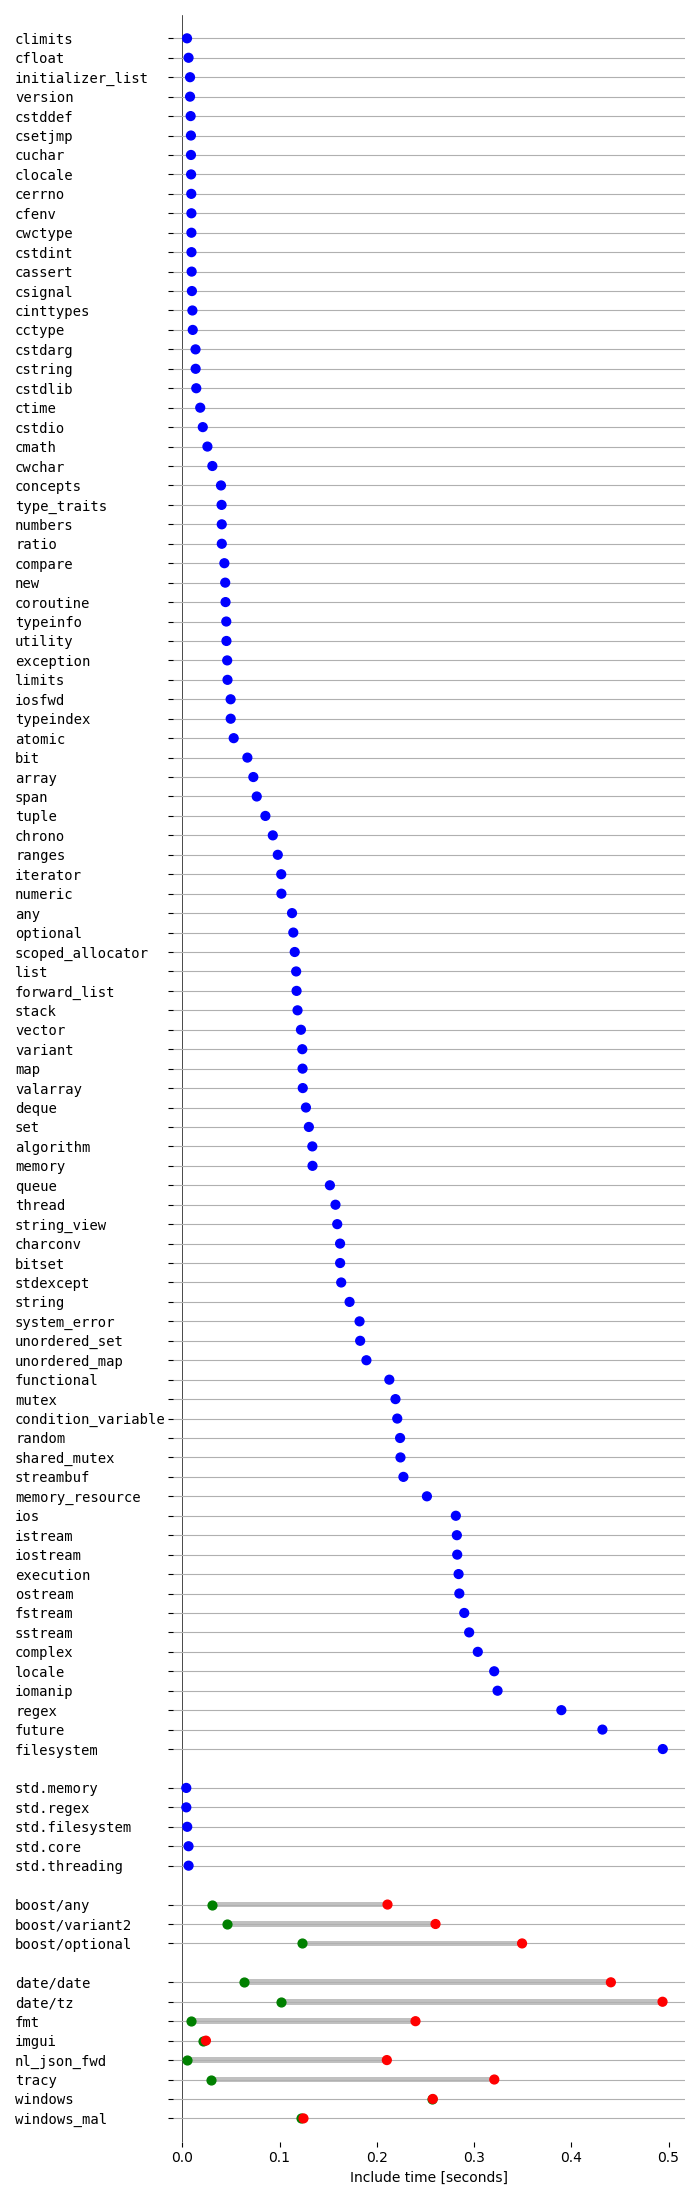
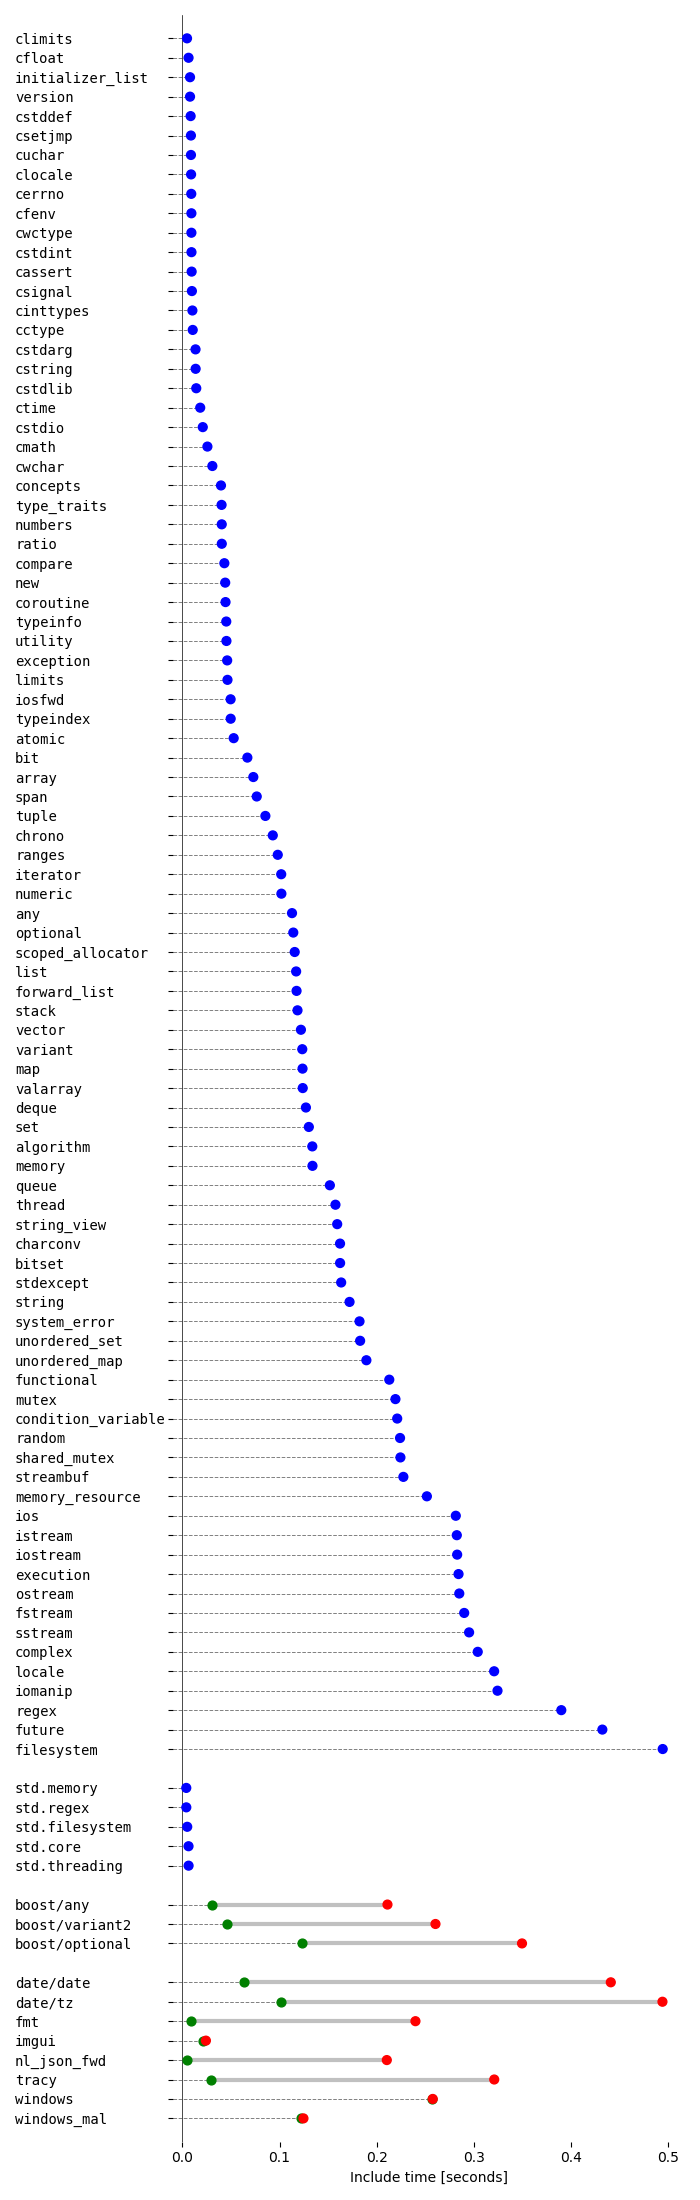
plot cosmetics

diff --git a/plotting/plot.py b/plotting/plot.py
@@ -2,6 +2,7 @@ import matplotlib as mpl
 import matplotlib.pyplot as plt
 import os.path
 import numpy as np
+
 def get_pretty_name(name):
     if(name.startswith("std_")):
         return "std." + name[4:]
@@ -79,26 +80,13 @@ for dataset in [std_data, std_modules_data, boost_data, misc_data]:
     expensive_datasets.append(get_dataset_slice(dataset, exp_indices))
 
 def create_plot(datasets, fn):
-    def plot_dataset(ax, y_pos, names, means, errors, colors, all_values, all_errors, bar_filter):
-        y_filtered = np.array(y_pos)[bar_filter]
-        all_values_filtered = all_values[bar_filter]
-        width_filtered = (means-all_values)[bar_filter]
-        _ = ax.barh(y_filtered, left=all_values_filtered, width=width_filtered, height=0.3, color="silver", zorder=0)
-        _ = ax.scatter(means, y_pos, s=40, c=colors, zorder=2)
-        _ = ax.scatter(all_values, y_pos, s=40, c="green", zorder=1)
-        # _ = ax.errorbar(means, y_pos, xerr=errors, linestyle='none', capsize=2, zorder=0, color="black")
-        # _ = ax.errorbar(all_values, y_pos, xerr=all_errors, linestyle='none', capsize=2, zorder=0, color="black")
-        
-        _ = plt.yticks(y_pos, names, fontfamily="monospace", ha = 'left')
-        ax.get_yaxis().set_tick_params(pad=110)
-    
     def plot_datasets(ax, datasets):
         names = []
-        mean_values = np.empty(0)
+        means = np.empty(0)
         errors = np.empty(0)
-        all_mean_values = np.empty(0)
+        all_means = np.empty(0)
         all_errors = np.empty(0)
-        plot_colors = []
+        colors = []
 
         y_offset = 0
         y_pos = []
@@ -107,19 +95,27 @@ def create_plot(datasets, fn):
             dataset_size = len(dataset["names"])
             names.extend(dataset["names"].tolist())
             y_pos.extend(range(-y_offset, -(y_offset+dataset_size), -1))
-            plot_colors.extend([dataset["color"]] * dataset_size)
-            mean_values = np.append(mean_values, dataset["mean"])
+            colors.extend([dataset["color"]] * dataset_size)
+            means = np.append(means, dataset["mean"])
             errors = np.append(errors, dataset["error"])
-            all_mean_values = np.append(all_mean_values, dataset["all_mean"])
+            all_means = np.append(all_means, dataset["all_mean"])
             all_errors = np.append(all_errors, dataset["all_error"])
             y_offset += dataset_size + 1
-        bar_filter = np.where(all_mean_values>0)
+        bar_filter = np.where(all_means>0)
 
         ax.set_xlabel("Include time [seconds]")
         ax.margins(0)
-        plot_dataset(ax, y_pos, names, mean_values, errors, plot_colors, all_mean_values, all_errors, bar_filter)
+
+        _ = ax.hlines(y_pos, xmin=-0.01, xmax=means, alpha=0.5, color="black", zorder=-1, linewidths=0.7, linestyles="dashed")
+        _ = ax.hlines(np.array(y_pos)[bar_filter], xmin=all_means[bar_filter], xmax=means[bar_filter], linewidths=3, color="silver", zorder=0)
+        _ = ax.scatter(means, y_pos, s=40, c=colors, zorder=2)
+        _ = ax.scatter(all_means, y_pos, s=40, c="green", zorder=1)
+        # _ = ax.errorbar(means, y_pos, xerr=errors, linestyle='none', capsize=2, zorder=0, color="black")
+        # _ = ax.errorbar(all_means, y_pos, xerr=all_errors, linestyle='none', capsize=2, zorder=0, color="black")
+        _ = plt.yticks(y_pos, names, fontfamily="monospace", ha = 'left')
+        ax.get_yaxis().set_tick_params(pad=110)
+
         ax.set_axisbelow(True)
-        ax.grid(axis="y")
         ax.spines["right"].set_visible(False)
         ax.spines["top"].set_visible(False)
         ax.spines["bottom"].set_visible(False)
